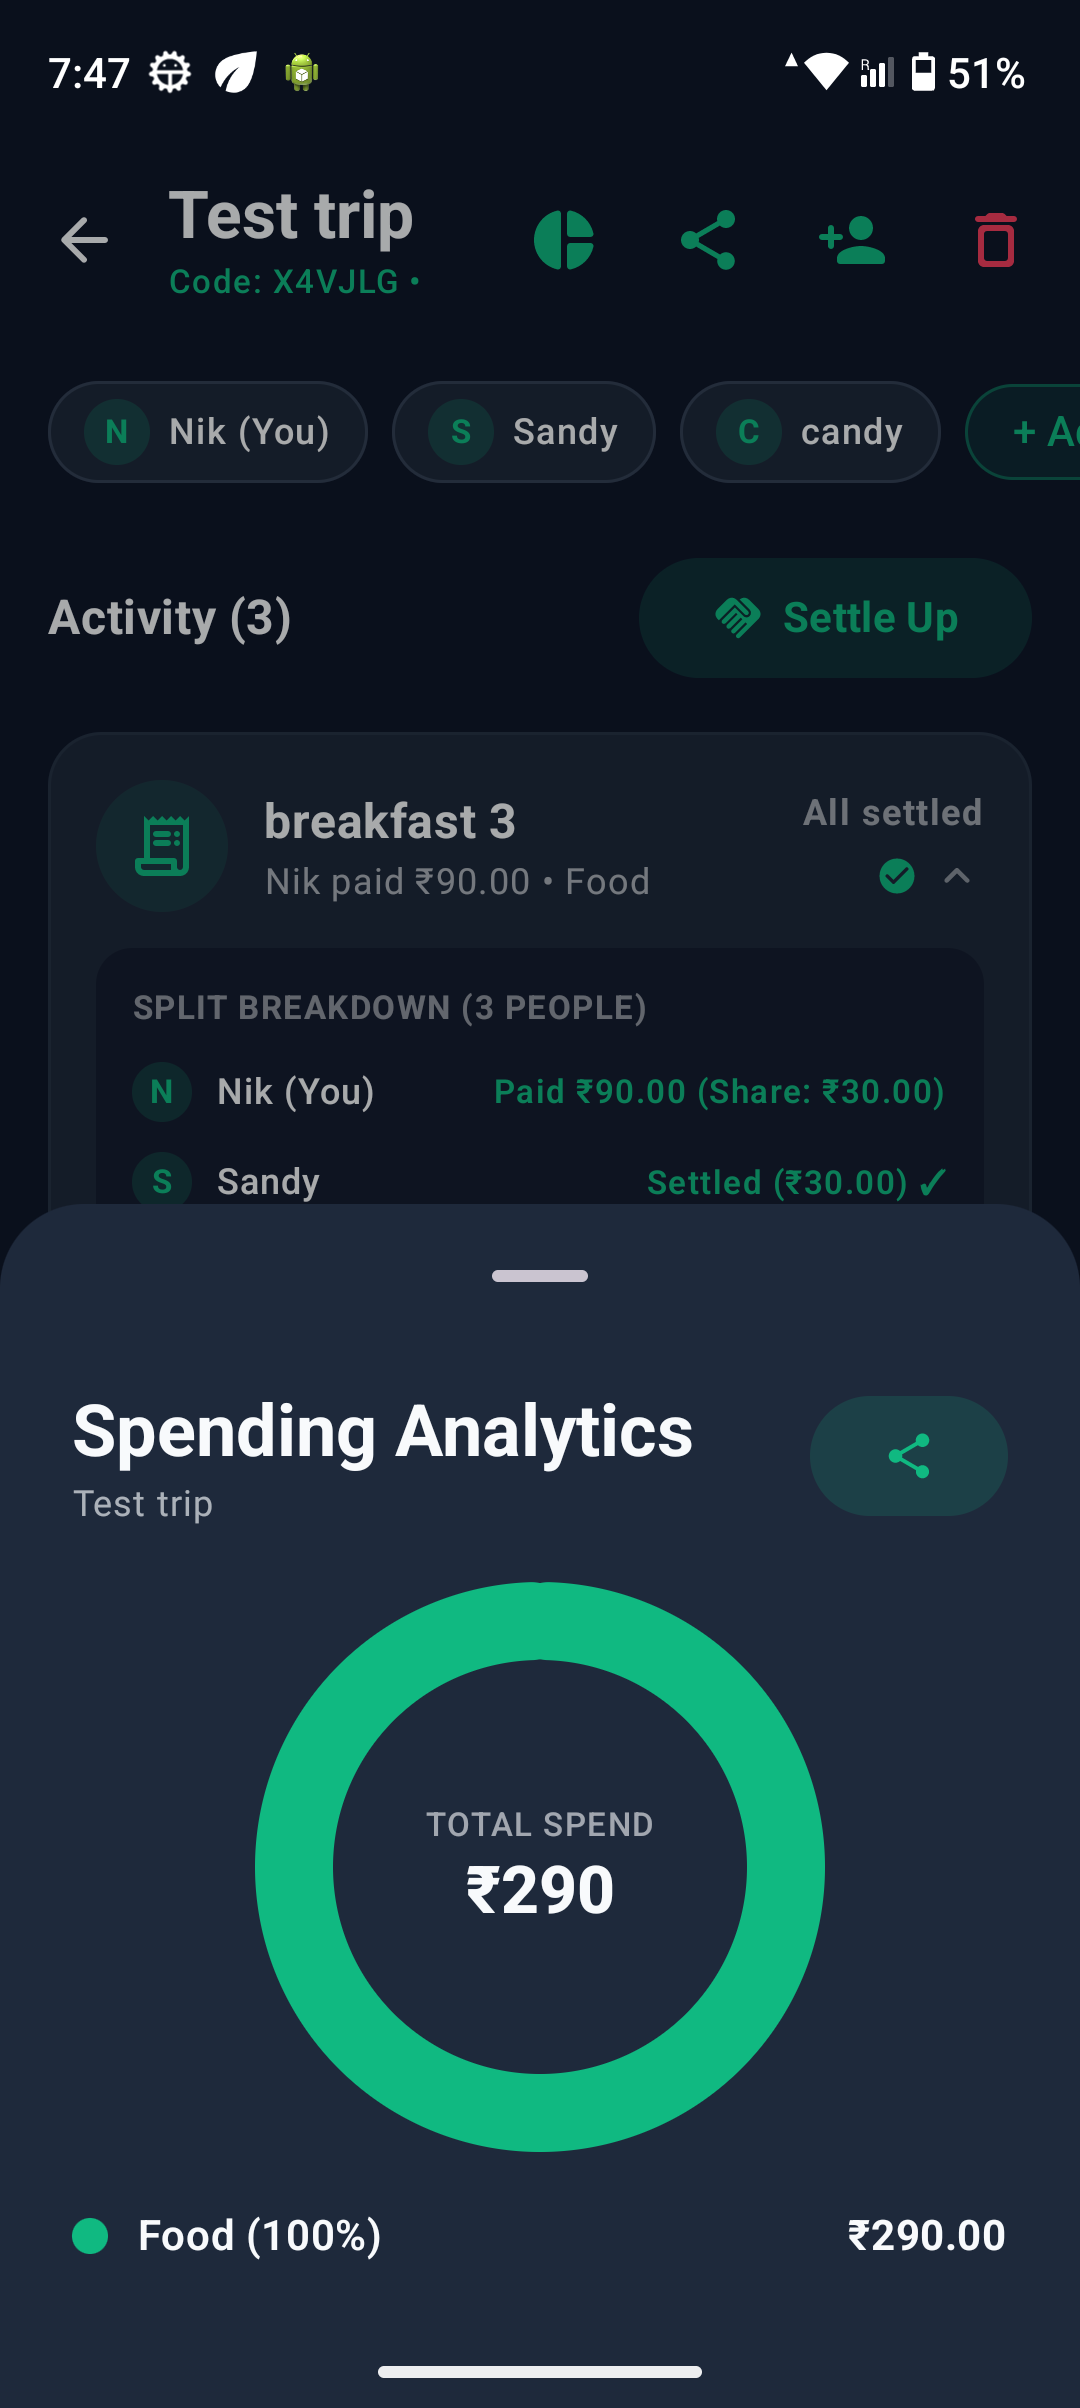
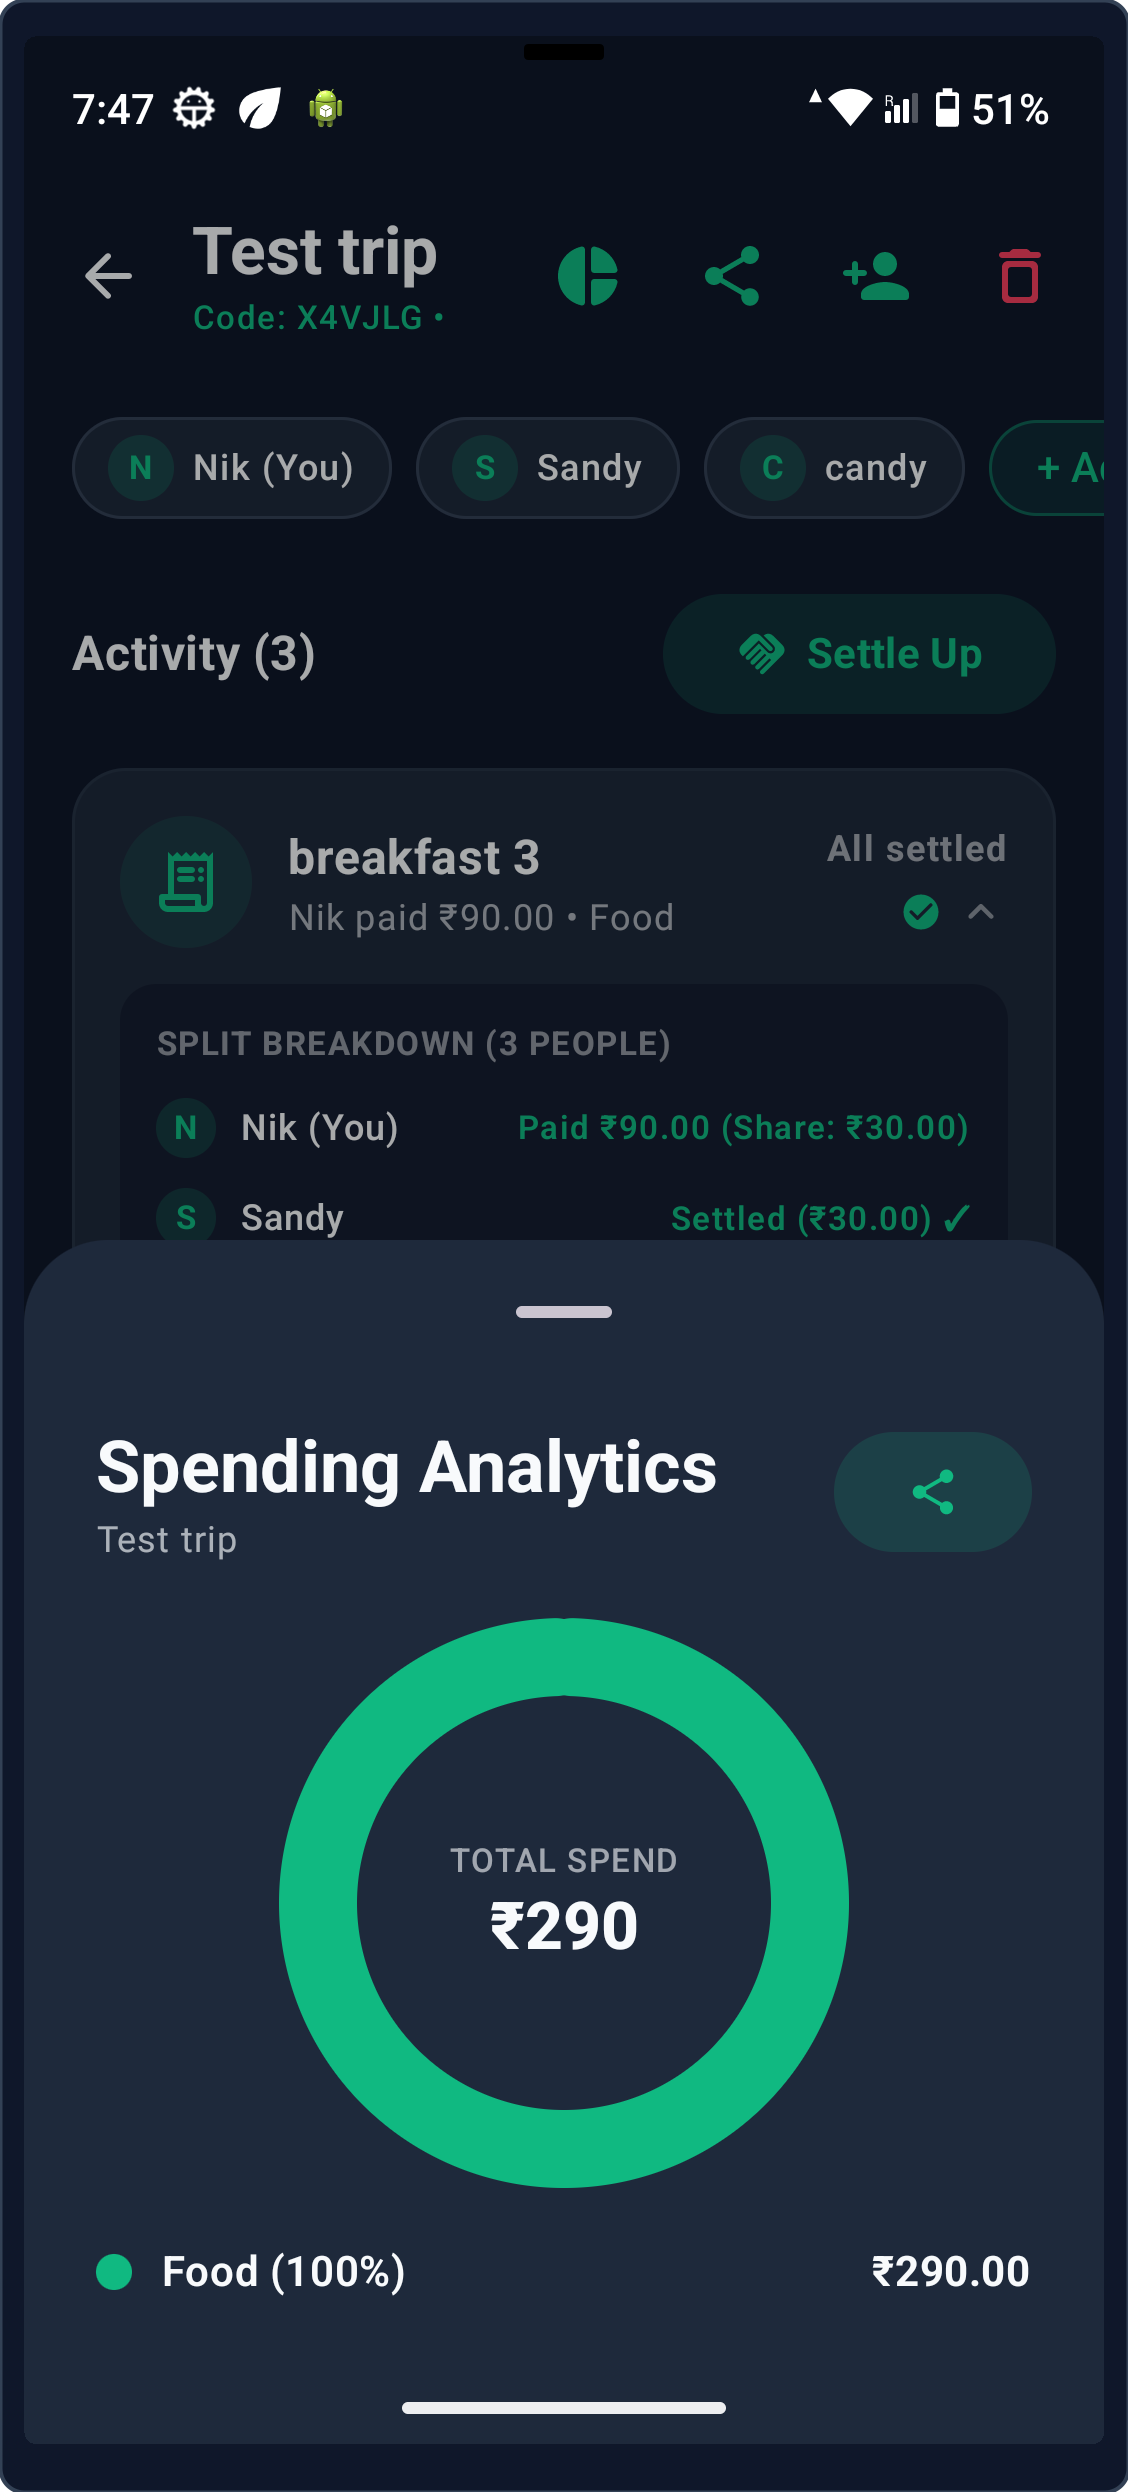
Add mobile-framed screenshots and update README for portfolio showcase

diff --git a/README.md b/README.md
@@ -72,7 +72,7 @@ Every expense creation, multi-installment FIFO partial settlement, or swipe-to-d
 
 | 🏠 **Home Dashboard** | 🧾 **Group Split Breakdown** | 📊 **Canvas Analytics** |
 | :---: | :---: | :---: |
-| <div style="background: #0f172a; border-radius: 40px; padding: 12px; display: inline-block; box-shadow: 0 25px 50px rgba(0,0,0,0.8); border: 4px solid #334155;"><div style="border-radius: 30px; overflow: hidden; background: #000;"><img src="screenshots/home.png" width="260" alt="Home Dashboard" style="display: block;" /></div></div> | <div style="background: #0f172a; border-radius: 40px; padding: 12px; display: inline-block; box-shadow: 0 25px 50px rgba(0,0,0,0.8); border: 4px solid #334155;"><div style="border-radius: 30px; overflow: hidden; background: #000;"><img src="screenshots/group_detail.png" width="260" alt="Group Detail" style="display: block;" /></div></div> | <div style="background: #0f172a; border-radius: 40px; padding: 12px; display: inline-block; box-shadow: 0 25px 50px rgba(0,0,0,0.8); border: 4px solid #334155;"><div style="border-radius: 30px; overflow: hidden; background: #000;"><img src="screenshots/analytics.png" width="260" alt="Canvas Analytics" style="display: block;" /></div></div> |
+| <img src="screenshots/home.png" width="240" alt="Home Dashboard" /> | <img src="screenshots/group_detail.png" width="240" alt="Group Detail" /> | <img src="screenshots/analytics.png" width="240" alt="Canvas Analytics" /> |
 
 </div>
 
@@ -128,7 +128,7 @@ com.portfolio.splitsync/
 │   ├── sync/                       # HiltWorker, NetworkMonitor (ConnectivityManager), FCM
 │   └── repository/                 # Offline-First Repository Implementations
 │
-├── 📂 di/                          # Dagger Hilt Modules (@Provides & @Binds)
+├── 📂 di/                          # Dager Hilt Modules (@Provides & @Binds)
 │
 └── 📂 ui/                          # MVVM Presentation Layer
     ├── theme/                      # Deep Slate & Electric Emerald Fintech Palette
